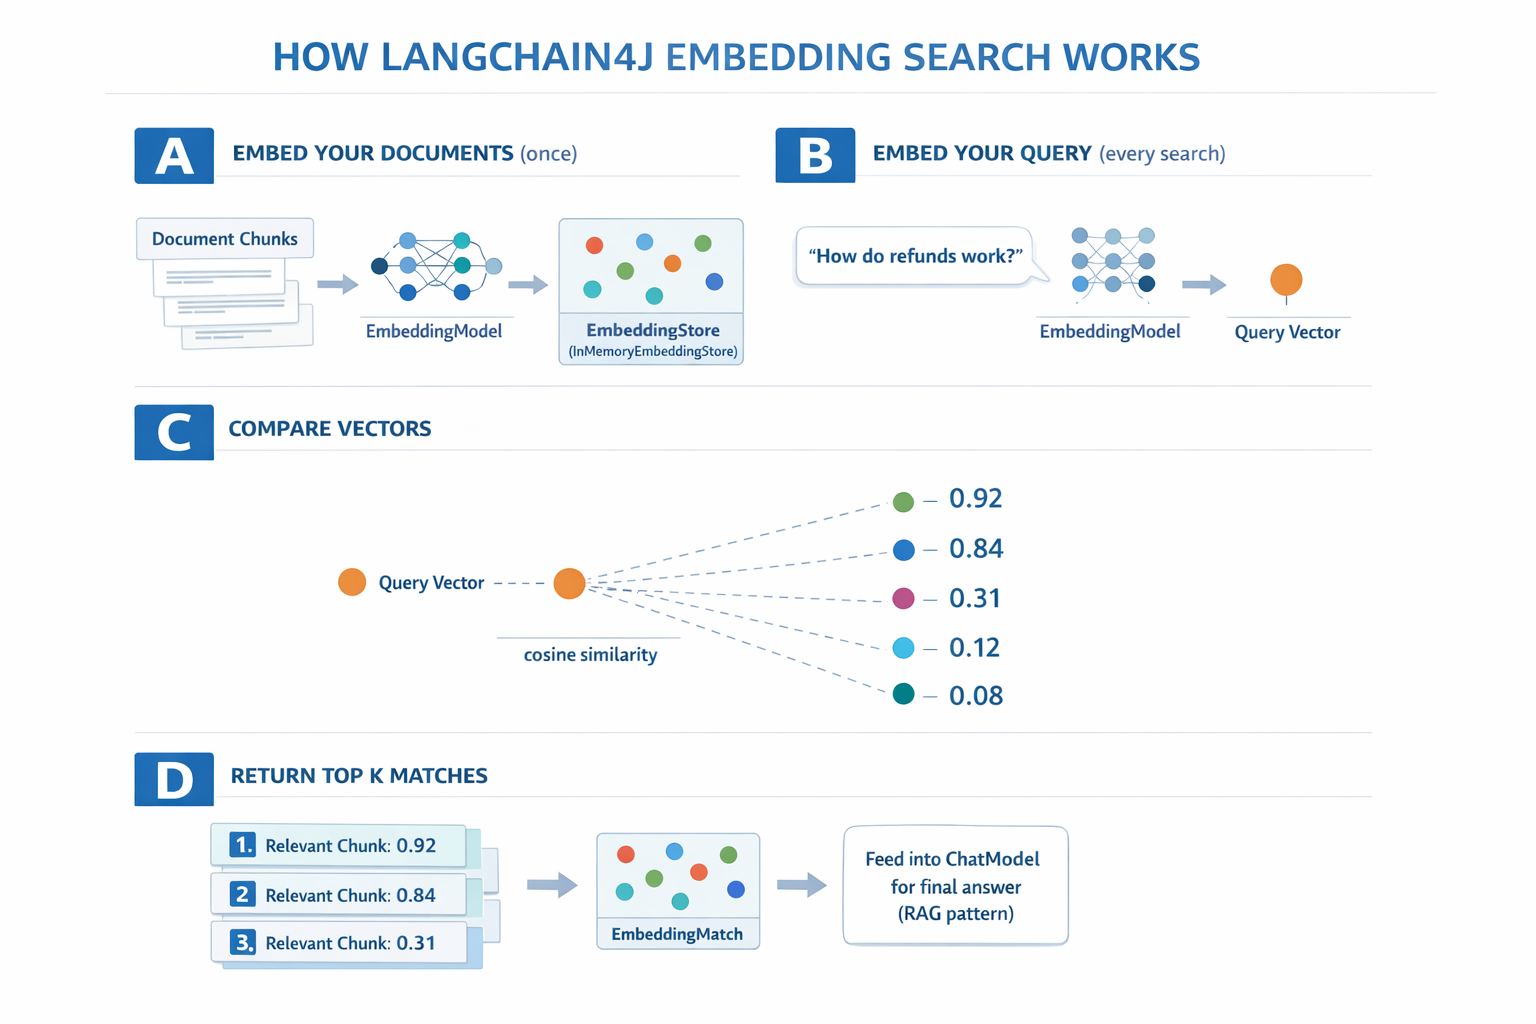
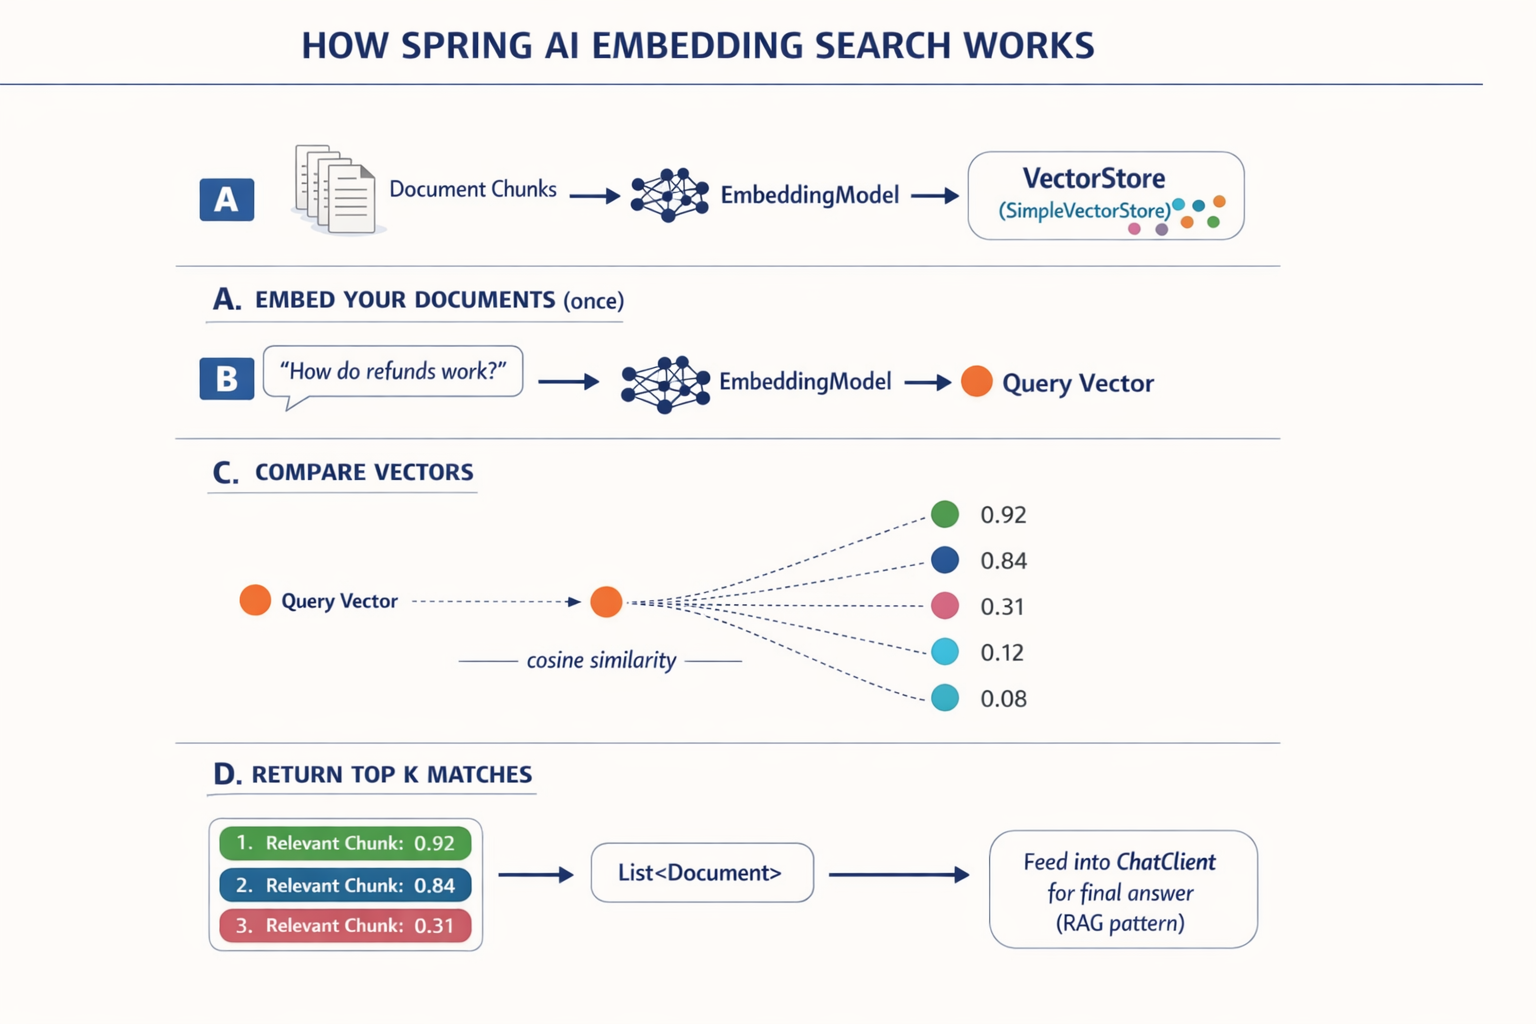
docs: update README for Module 03 with new RAG approaches and diagrams; replace easy RAG pipeline image with updated ETL pipeline image

diff --git a/03-rag/README.md b/03-rag/README.md
@@ -45,7 +45,6 @@ This grounds the model's responses in your actual data instead of relying on its
 
 ## Prerequisites
 
-- Completed [Module 00 - Quick Start](../00-quick-start/README.md) (for the Easy RAG example referenced later in this module)
 - Completed [Module 01 - Introduction](../01-introduction/README.md) (Azure OpenAI resources deployed, including the `text-embedding-3-small` embedding model)
 - `.env` file in root directory with Azure credentials (created by `azd up` in Module 01)
 
@@ -115,8 +114,9 @@ Spring AI offers different ways to implement RAG, each with a different level of
 
 | Approach | What It Does | Trade-off |
 |---|---|---|
-| **Advisor-based RAG** | Uses Spring AI 2.0's `QuestionAnswerAdvisor` with `ChatClient` to automatically retrieve relevant context and inject it into prompts. | Minimal code — the recommended approach for production. |
 | **Native RAG** | You call the vector store search, build the prompt, and generate the answer yourself — one explicit step at a time. | More code, but every stage is visible and modifiable. |
+| **Advisor-based RAG** | Uses Spring AI 2.0's `QuestionAnswerAdvisor` with `ChatClient` to automatically retrieve relevant context and inject it into prompts. | Minimal code — the recommended approach for production. |
+| **ETL Pipeline RAG** | Combines both — uses the ETL framework (`DocumentReader` → `TokenTextSplitter` → `VectorStore`) for ingestion and the `QuestionAnswerAdvisor` for querying. | Best of both worlds: structured ingestion with automated retrieval. |
 
 The diagram below compares these three levels of abstraction — from the fully manual Native approach, through the Advisor-based pipeline, to a full ETL pipeline — so you can see the trade-off between control and convenience at a glance.
 
@@ -124,25 +124,25 @@ The diagram below compares these three levels of abstraction — from the fully 
 
 *This diagram compares three Spring AI RAG approaches side by side: Native RAG (manual vector search, context assembly, and prompt building), Advisor-based RAG (QuestionAnswerAdvisor handles retrieval and injection automatically), and full ETL pipeline (end-to-end document processing with minimal code).*
 
-**This tutorial implements both approaches.** The Native approach in [`RagService.java`](src/main/java/com/example/springai/rag/service/RagService.java) writes out each RAG step explicitly — searching the vector store, assembling the context, and generating the answer — so you can see and understand every stage. The Advisor-based approach in [`AdvisorRagService.java`](src/main/java/com/example/springai/rag/service/AdvisorRagService.java) uses Spring AI 2.0's `QuestionAnswerAdvisor` with `ChatClient` to do the same thing in a single call. Both endpoints are available in the running application so you can compare them side-by-side.
+**This tutorial implements all three.** The Native approach in [`RagService.java`](src/main/java/com/example/springai/rag/service/RagService.java) writes out each RAG step explicitly — searching the vector store, assembling the context, and generating the answer — so you can see and understand every stage. The Advisor-based approach in [`AdvisorRagService.java`](src/main/java/com/example/springai/rag/service/AdvisorRagService.java) uses `QuestionAnswerAdvisor` with `ChatClient` to do the same thing in a single call. The ETL pipeline approach combines both — using the ETL framework for structured document ingestion and the advisor for automated query-time retrieval. All three endpoints are available in the running application so you can compare them.
 
 ## How It Works
 
-The RAG pipeline in this module breaks down into four stages that run in sequence every time a user asks a question. First, an uploaded document is **parsed and chunked** into manageable pieces. Those chunks are then converted into **vector embeddings** and stored so they can be compared mathematically. When a query arrives, the system performs a **semantic search** to find the most relevant chunks, and finally passes them as context to the LLM for **answer generation**.
+The RAG pipeline has four stages: **Ingest**, **Transform**, **Store & Search**, and **Generate**. Each stage hands off to the next — documents go in one end, grounded answers come out the other.
 
-Before diving into each stage, here's the Spring AI class hierarchy that powers this pipeline — from document ingestion through to answer generation:
+The class hierarchy below shows how Spring AI organizes these stages. Each stage has a core interface with swappable implementations, so you can change the vector database or document reader without rewriting the pipeline:
 
 <img src="images/rag-spring-ai-classes.png" alt="Spring AI RAG Class Hierarchy" width="800"/>
 
-*This diagram shows the four-stage Spring AI RAG class hierarchy: INGEST (DocumentReader, TextReader, PagePdfDocumentReader), EMBED (EmbeddingModel, TokenTextSplitter), STORE & SEARCH (VectorStore, SimpleVectorStore, SearchRequest), and GENERATE (ChatClient, QuestionAnswerAdvisor, PromptTemplate). Each stage feeds into the next.*
+*Spring AI's four-stage RAG class hierarchy — each stage has a core interface with pluggable implementations you can swap without changing the rest of the pipeline.*
 
-And here's how those classes connect in the ETL (Extract-Transform-Load) pipeline that runs end-to-end when a document is uploaded and queried:
+Here's how those classes connect at runtime. Documents flow left to right through the ETL pipeline — read, chunked, embedded, stored. Queries flow the same direction — the advisor searches the store, injects matching chunks into the prompt, and the chat client generates an answer:
 
-<img src="images/easy-rag-pipeline.png" alt="Spring AI ETL RAG Pipeline" width="800"/>
+<img src="images/rag-pipeline.png" alt="Spring AI ETL RAG Pipeline" width="800"/>
 
-*This diagram shows the Spring AI ETL RAG pipeline: DocumentReader extracts text, TokenTextSplitter chunks it, EmbeddingModel converts chunks to vectors, VectorStore stores them, and at query time QuestionAnswerAdvisor retrieves relevant chunks and ChatClient generates the answer.*
+*The ETL pipeline in action — documents are processed and stored once; queries retrieve relevant chunks on the fly and feed them to the LLM.*
 
-The sections below walk through each stage with the actual code and diagrams. Let's look at the first step.
+The sections below walk through each stage with the actual code and diagrams.
 
 ### Document Processing
 
@@ -203,11 +203,11 @@ Once embeddings are stored, similar content naturally clusters together in vecto
 
 *This visualization shows how related documents cluster together in 3D vector space, with topics like Technical Docs, Business Rules, and FAQs forming distinct groups.*
 
-When a user searches, the system follows four steps: embed the documents once, embed the query on each search, compare the query vector against all stored vectors using cosine similarity, and return the top-K highest-scoring chunks. The diagram below walks through each step:
+When a user searches, Spring AI's embedding search follows four steps. The diagram below walks through each one:
 
-<img src="images/embedding-search-steps.png" alt="Embedding Search Steps" width="800"/>
+<img src="images/embedding-search-steps.png" alt="How Spring AI Embedding Search Works" width="800"/>
 
-*This diagram shows the four-step embedding search process: embed documents, embed the query, compare vectors with cosine similarity, and return the top-K results.*
+*This diagram shows how Spring AI embedding search works in four steps: (A) document chunks are embedded once via `EmbeddingModel` and stored in a `VectorStore` (SimpleVectorStore), (B) each user query is embedded into a Query Vector, (C) cosine similarity compares the query vector against all stored vectors to produce relevance scores, and (D) the top-K matching chunks are returned as a `List<Document>` and fed into `ChatClient` for the final RAG answer.*
 
 ### Semantic Search
 